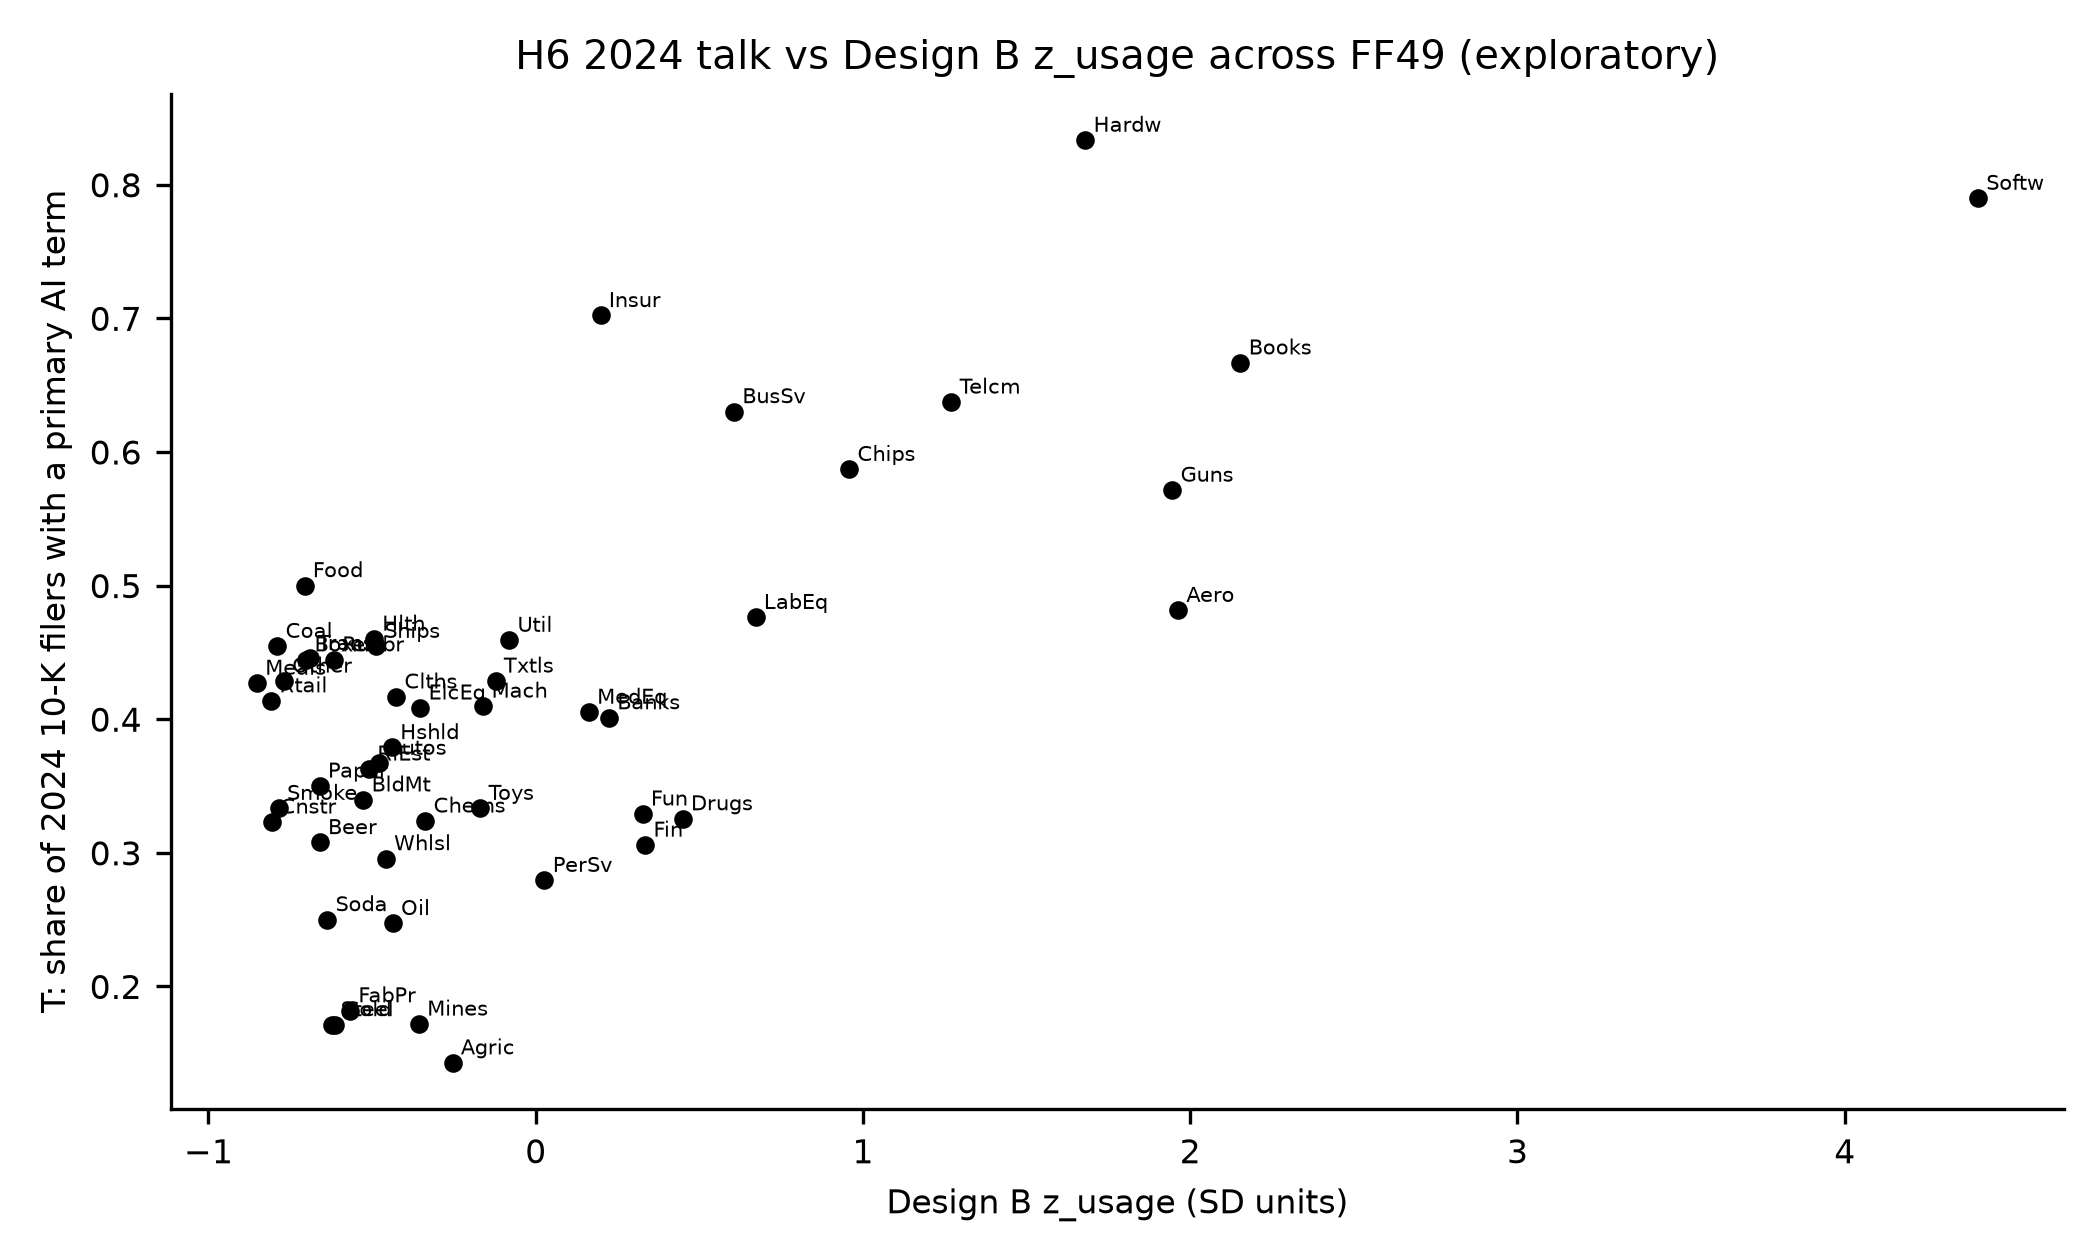
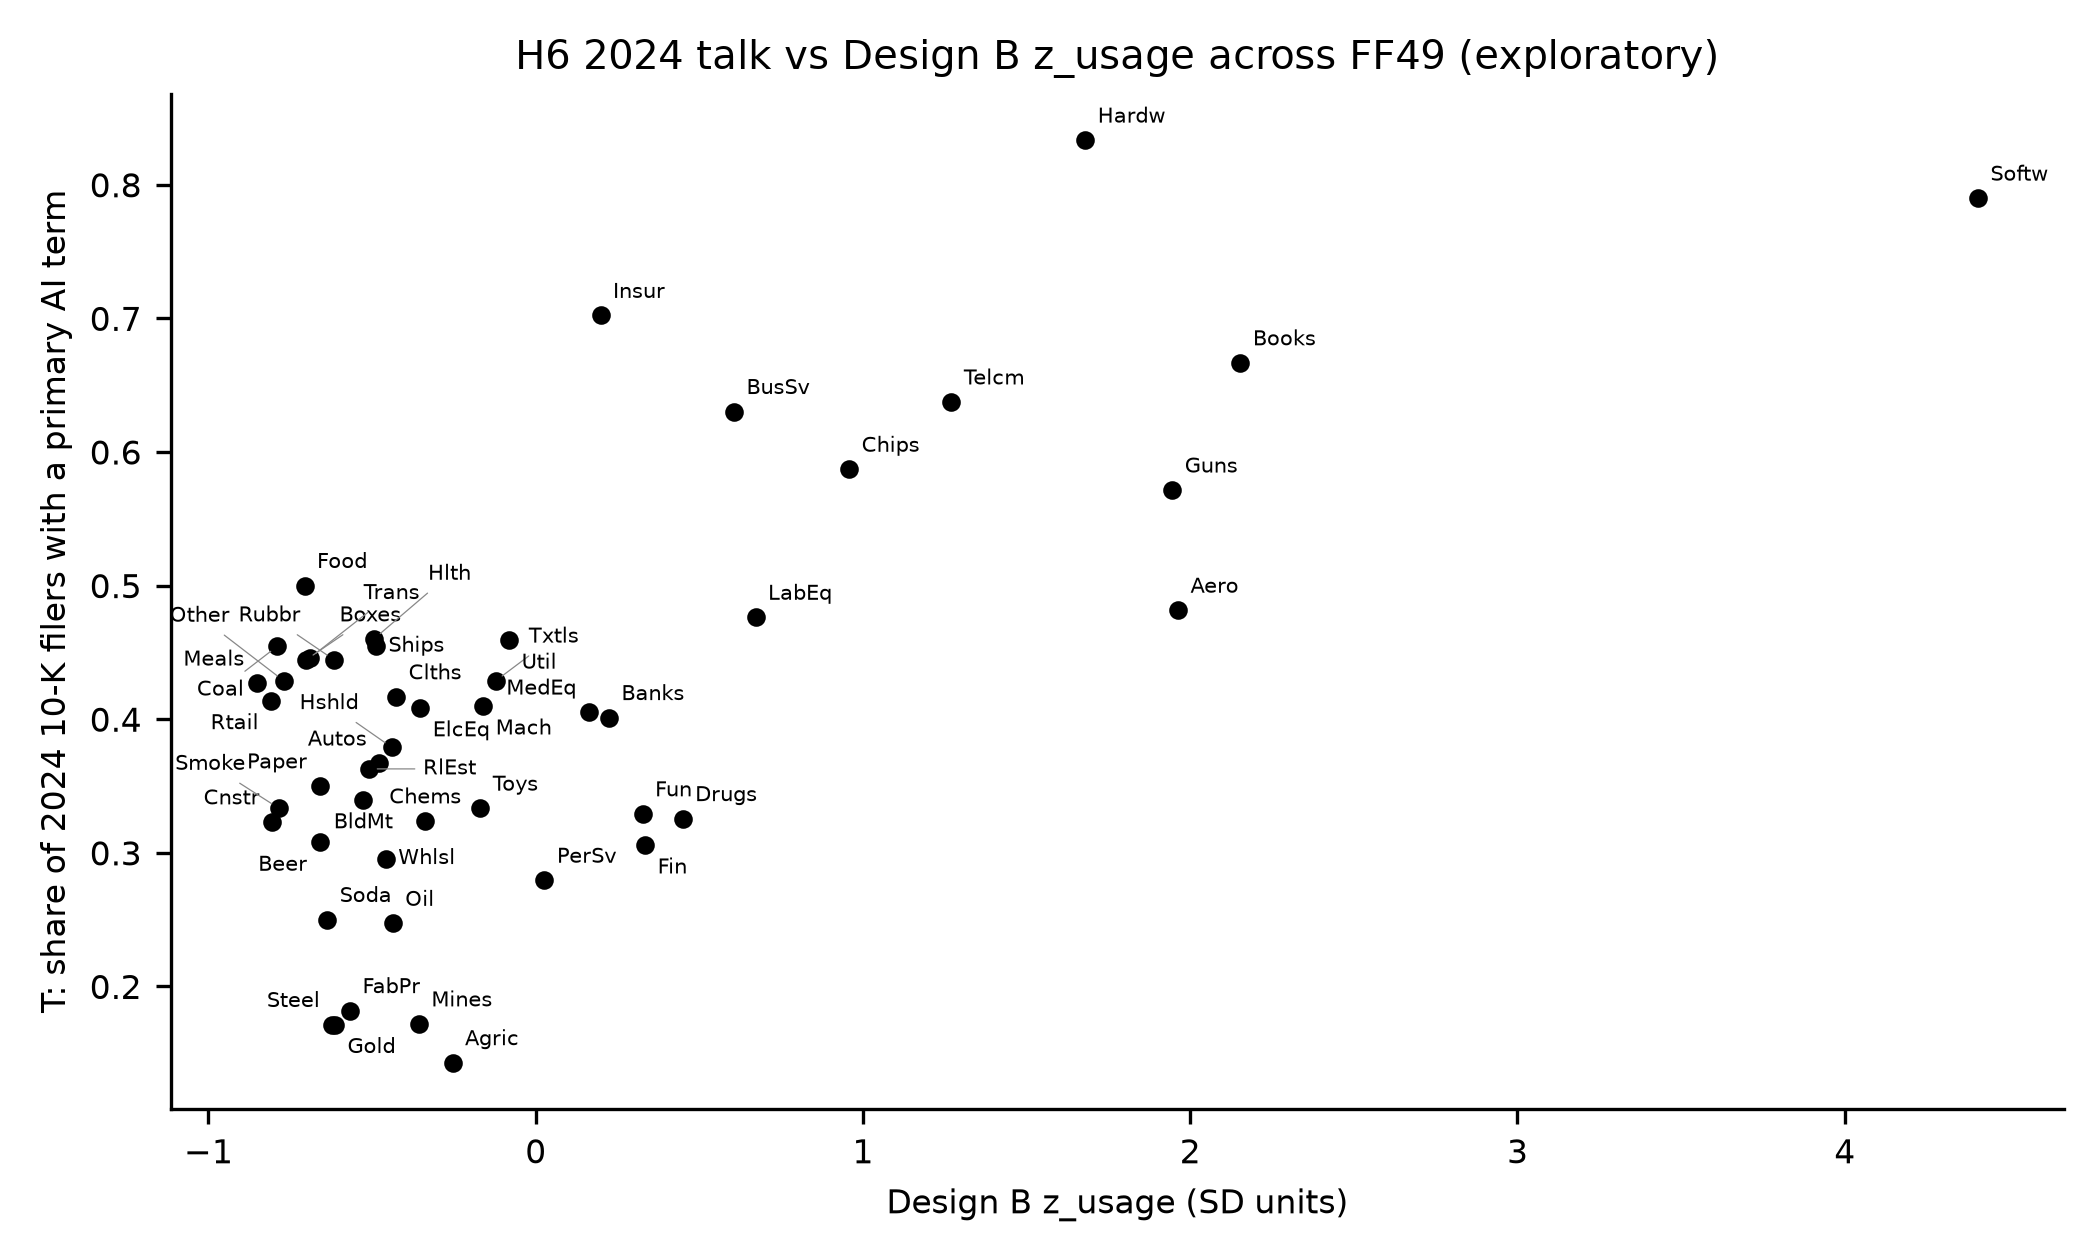
fix(h6): Task 12 review -- legible talk-vs-usage labels, 2024 counts in the gap ranking (presentation only, C-52)
Labels in fig_h6_talk_vs_usage are placed greedily with leader lines so none
collide; gap.md's ranking gains the 2024 talk-filer and filer counts. No
estimate changed: talk_index.csv and gap.csv are byte-identical to 929a094,
and the only doc change is the two added columns in gap.md.

diff --git a/src/aideleg/h6/talk.py b/src/aideleg/h6/talk.py
@@ -322,10 +322,28 @@ def _talk_md(
 
 
 def _gap_md(
-    g: pl.DataFrame, sp: dict, pool_t: dict, nulls_t: list[str], zero_lines: list[str], n_draws: int
+    g: pl.DataFrame,
+    sp: dict,
+    pool_t: dict,
+    nulls_t: list[str],
+    zero_lines: list[str],
+    n_draws: int,
+    counts_t: pl.DataFrame,
 ) -> str:
-    ranked = g.with_row_index("rank", offset=1).select(
-        "rank", pl.col("ff49_short").alias("industry"), "T", "zT", "z_usage", "gap"
+    ranked = (
+        g.with_row_index("rank", offset=1)
+        .join(counts_t, on="ff49_short", how="left")
+        .sort("rank")
+        .select(
+            "rank",
+            pl.col("ff49_short").alias("industry"),
+            pl.col("n_talk").alias(f"talk filers {T_YEAR}"),
+            pl.col("n_filers").alias(f"filers {T_YEAR}"),
+            "T",
+            "zT",
+            "z_usage",
+            "gap",
+        )
     )
     lo, hi = sp["ci95"]
     lines = [
@@ -464,14 +482,73 @@ def _fig_vs_usage(g: pl.DataFrame):
     apply_style()
     fig, ax = plt.subplots(figsize=FIGSIZE["double"])
     x, y = g["z_usage"].to_numpy(), g["T"].to_numpy()
-    ax.scatter(x, y, s=12, color=PALETTE[0])
-    for n, xi, yi in zip(g["ff49_short"].to_list(), x, y, strict=True):
-        ax.annotate(n, (xi, yi), fontsize=5, xytext=(2, 2), textcoords="offset points")
+    ax.scatter(x, y, s=12, color=PALETTE[0], zorder=3)
     ax.set_xlabel("Design B z_usage (SD units)")
     ax.set_ylabel(f"T: share of {T_YEAR} 10-K filers with a primary AI term")
     ax.set_title(f"H6 {T_YEAR} talk vs Design B z_usage across FF49 (exploratory)")
     fig.tight_layout()
+    _place_labels(fig, ax, g["ff49_short"].to_list(), x, y)
     return fig
+
+
+def _place_labels(fig, ax, names: list[str], x: np.ndarray, y: np.ndarray) -> None:
+    """Deterministic greedy label placement: each label (in order of y, then name) takes the
+    first candidate offset whose box overlaps no placed label and no marker; labels away from
+    their point get a thin leader line. Presentation only."""
+    from matplotlib.transforms import Bbox
+
+    renderer = fig.canvas.get_renderer()
+    pts = ax.transData.transform(np.column_stack([x, y]))
+    scale = fig.dpi / 72.0
+    marker = 3.0 * scale
+    markers = [
+        Bbox.from_extents(px - marker, py - marker, px + marker, py + marker) for px, py in pts
+    ]
+    dirs = [(1, 1), (1, -1), (-1, 1), (-1, -1), (1, 0), (-1, 0), (0, 1), (0, -1)]
+    cands = [(dx * r, dy * r) for r in (3, 8, 13, 18, 24, 30, 38, 46) for dx, dy in dirs]
+    placed: list = []
+    order = sorted(range(len(names)), key=lambda i: (y[i], names[i]))
+    for i in order:
+        probe = ax.text(0, 0, names[i], fontsize=5)
+        ext = probe.get_window_extent(renderer)
+        probe.remove()
+        w, h = ext.width, ext.height
+        chosen = cands[-1]
+        for dx, dy in cands:
+            cx = pts[i][0] + dx * scale
+            cy = pts[i][1] + dy * scale
+            x0 = cx if dx >= 0 else cx - w
+            x0 = x0 - w / 2 if dx == 0 else x0
+            y0 = cy if dy >= 0 else cy - h
+            y0 = y0 - h / 2 if dy == 0 else y0
+            box = Bbox.from_bounds(x0, y0, w, h)
+            others = markers[:i] + markers[i + 1 :]
+            if not any(box.overlaps(b) for b in placed + others):
+                chosen = (dx, dy)
+                placed.append(box)
+                break
+        dx, dy = chosen
+        ha = "center" if dx == 0 else ("left" if dx > 0 else "right")
+        va = "center" if dy == 0 else ("bottom" if dy > 0 else "top")
+        far = max(abs(dx), abs(dy)) > 3
+        ax.annotate(
+            names[i],
+            (x[i], y[i]),
+            xytext=(dx, dy),
+            textcoords="offset points",
+            fontsize=5,
+            ha=ha,
+            va=va,
+            arrowprops={
+                "arrowstyle": "-",
+                "lw": 0.3,
+                "color": "#888888",
+                "shrinkA": 0,
+                "shrinkB": 2,
+            }
+            if far
+            else None,
+        )
 
 
 def run_talk(
@@ -507,7 +584,10 @@ def run_talk(
     sp = spearman_ci(g["T"].to_numpy(), g["z_usage"].to_numpy(), n_draws=n_draws)
     pool_t = pool.filter(pl.col("year") == T_YEAR).row(0, named=True)
     nulls_t = null_talk(t).filter(pl.col("year") == T_YEAR)["ff49_short"].to_list()
-    gap_text = _gap_md(g, sp, pool_t, nulls_t, zero_lines, n_draws)
+    counts_t = t.filter((pl.col("year") == T_YEAR) & pl.col("ff49").is_not_null()).select(
+        "ff49_short", "n_talk", "n_filers"
+    )
+    gap_text = _gap_md(g, sp, pool_t, nulls_t, zero_lines, n_draws, counts_t)
     check_text(gap_text)
     res = gap_returns(g)
     ret_text = _ret_md(res, zero_lines)

diff --git a/tests/h6/test_talk.py b/tests/h6/test_talk.py
@@ -280,6 +280,7 @@ def test_h6_docs_labelled(monkeypatch, tmp_path):
     g = pl.read_csv(tmp_path / "gap.csv")
     assert g.columns == ["ff49_short", "T", "zT", "z_usage", "resid", "gap"]
     assert g.height == 12  # industries 13..49 have no 2024 filer: T null, listed, not in gap
+    assert "| talk filers 2024 | filers 2024 |" in gap_md
     assert "I13" in gap_md and "unmapped" in (tmp_path / "talk_index.md").read_text()
 
 

diff --git a/docs/results/h6/gap.md b/docs/results/h6/gap.md
@@ -21,56 +21,56 @@ Generated by `uv run python -m aideleg.h6 talk`. Do not edit by hand.
 
 T is a share of filers; zT, z_usage and gap are in SD units. Full precision, with the residual before scaling, in `gap.csv`.
 
-| rank | industry | T | zT | z_usage | gap |
-|---|---|---|---|---|---|
-| 1 | Insur | 0.702 | 1.939 | 0.198 | 2.416 |
-| 2 | Hardw | 0.833 | 2.809 | 1.679 | 2.265 |
-| 3 | Food | 0.500 | 0.599 | -0.706 | 1.427 |
-| 4 | BusSv | 0.630 | 1.463 | 0.606 | 1.417 |
-| 5 | Coal | 0.455 | 0.298 | -0.790 | 1.098 |
-| 6 | Trans | 0.446 | 0.238 | -0.691 | 0.931 |
-| 7 | Boxes | 0.444 | 0.231 | -0.701 | 0.930 |
-| 8 | Meals | 0.427 | 0.115 | -0.852 | 0.909 |
-| 9 | Telcm | 0.637 | 1.510 | 1.270 | 0.892 |
-| 10 | Hlth | 0.460 | 0.334 | -0.494 | 0.885 |
-| 11 | Rubbr | 0.444 | 0.231 | -0.616 | 0.855 |
-| 12 | Other | 0.429 | 0.126 | -0.769 | 0.850 |
-| 13 | Ships | 0.455 | 0.298 | -0.488 | 0.831 |
-| 14 | Rtail | 0.414 | 0.028 | -0.808 | 0.754 |
-| 15 | Chips | 0.587 | 1.176 | 0.958 | 0.722 |
-| 16 | Util | 0.459 | 0.328 | -0.081 | 0.510 |
-| 17 | Clths | 0.417 | 0.047 | -0.426 | 0.441 |
-| 18 | Books | 0.667 | 1.704 | 2.154 | 0.369 |
-| 19 | ElcEq | 0.408 | -0.007 | -0.353 | 0.303 |
-| 20 | Txtls | 0.429 | 0.126 | -0.123 | 0.277 |
-| 21 | Mach | 0.410 | 0.002 | -0.160 | 0.144 |
-| 22 | Hshld | 0.379 | -0.204 | -0.439 | 0.117 |
-| 23 | Paper | 0.350 | -0.395 | -0.660 | 0.057 |
-| 24 | Autos | 0.367 | -0.282 | -0.478 | 0.047 |
-| 25 | RlEst | 0.363 | -0.310 | -0.509 | 0.037 |
-| 26 | Smoke | 0.333 | -0.505 | -0.785 | 0.020 |
-| 27 | LabEq | 0.476 | 0.442 | 0.672 | -0.005 |
-| 28 | Cnstr | 0.323 | -0.573 | -0.805 | -0.053 |
-| 29 | BldMt | 0.340 | -0.464 | -0.527 | -0.153 |
-| 30 | MedEq | 0.405 | -0.028 | 0.162 | -0.182 |
-| 31 | Banks | 0.401 | -0.056 | 0.224 | -0.273 |
-| 32 | Guns | 0.571 | 1.073 | 1.945 | -0.290 |
-| 33 | Beer | 0.308 | -0.675 | -0.660 | -0.318 |
-| 34 | Chems | 0.324 | -0.569 | -0.337 | -0.461 |
-| 35 | Toys | 0.333 | -0.505 | -0.169 | -0.525 |
-| 36 | Softw | 0.790 | 2.521 | 4.407 | -0.537 |
-| 37 | Whlsl | 0.296 | -0.755 | -0.458 | -0.603 |
-| 38 | Soda | 0.250 | -1.058 | -0.637 | -0.849 |
-| 39 | Fun | 0.329 | -0.533 | 0.327 | -1.002 |
-| 40 | Oil | 0.247 | -1.077 | -0.437 | -1.052 |
-| 41 | Aero | 0.481 | 0.477 | 1.963 | -1.102 |
-| 42 | Drugs | 0.326 | -0.557 | 0.449 | -1.142 |
-| 43 | PerSv | 0.279 | -0.863 | 0.027 | -1.177 |
-| 44 | Fin | 0.306 | -0.688 | 0.334 | -1.215 |
-| 45 | FabPr | 0.182 | -1.510 | -0.567 | -1.514 |
-| 46 | Steel | 0.171 | -1.579 | -0.621 | -1.559 |
-| 47 | Gold | 0.171 | -1.579 | -0.613 | -1.566 |
-| 48 | Mines | 0.172 | -1.576 | -0.357 | -1.789 |
-| 49 | Agric | 0.143 | -1.768 | -0.254 | -2.137 |
+| rank | industry | talk filers 2024 | filers 2024 | T | zT | z_usage | gap |
+|---|---|---|---|---|---|---|---|
+| 1 | Insur | 99 | 141 | 0.702 | 1.939 | 0.198 | 2.416 |
+| 2 | Hardw | 40 | 48 | 0.833 | 2.809 | 1.679 | 2.265 |
+| 3 | Food | 30 | 60 | 0.500 | 0.599 | -0.706 | 1.427 |
+| 4 | BusSv | 242 | 384 | 0.630 | 1.463 | 0.606 | 1.417 |
+| 5 | Coal | 5 | 11 | 0.455 | 0.298 | -0.790 | 1.098 |
+| 6 | Trans | 45 | 101 | 0.446 | 0.238 | -0.691 | 0.931 |
+| 7 | Boxes | 4 | 9 | 0.444 | 0.231 | -0.701 | 0.930 |
+| 8 | Meals | 38 | 89 | 0.427 | 0.115 | -0.852 | 0.909 |
+| 9 | Telcm | 58 | 91 | 0.637 | 1.510 | 1.270 | 0.892 |
+| 10 | Hlth | 46 | 100 | 0.460 | 0.334 | -0.494 | 0.885 |
+| 11 | Rubbr | 8 | 18 | 0.444 | 0.231 | -0.616 | 0.855 |
+| 12 | Other | 9 | 21 | 0.429 | 0.126 | -0.769 | 0.850 |
+| 13 | Ships | 5 | 11 | 0.455 | 0.298 | -0.488 | 0.831 |
+| 14 | Rtail | 84 | 203 | 0.414 | 0.028 | -0.808 | 0.754 |
+| 15 | Chips | 108 | 184 | 0.587 | 1.176 | 0.958 | 0.722 |
+| 16 | Util | 101 | 220 | 0.459 | 0.328 | -0.081 | 0.510 |
+| 17 | Clths | 15 | 36 | 0.417 | 0.047 | -0.426 | 0.441 |
+| 18 | Books | 8 | 12 | 0.667 | 1.704 | 2.154 | 0.369 |
+| 19 | ElcEq | 29 | 71 | 0.408 | -0.007 | -0.353 | 0.303 |
+| 20 | Txtls | 3 | 7 | 0.429 | 0.126 | -0.123 | 0.277 |
+| 21 | Mach | 50 | 122 | 0.410 | 0.002 | -0.160 | 0.144 |
+| 22 | Hshld | 25 | 66 | 0.379 | -0.204 | -0.439 | 0.117 |
+| 23 | Paper | 7 | 20 | 0.350 | -0.395 | -0.660 | 0.057 |
+| 24 | Autos | 29 | 79 | 0.367 | -0.282 | -0.478 | 0.047 |
+| 25 | RlEst | 37 | 102 | 0.363 | -0.310 | -0.509 | 0.037 |
+| 26 | Smoke | 3 | 9 | 0.333 | -0.505 | -0.785 | 0.020 |
+| 27 | LabEq | 40 | 84 | 0.476 | 0.442 | 0.672 | -0.005 |
+| 28 | Cnstr | 21 | 65 | 0.323 | -0.573 | -0.805 | -0.053 |
+| 29 | BldMt | 18 | 53 | 0.340 | -0.464 | -0.527 | -0.153 |
+| 30 | MedEq | 92 | 227 | 0.405 | -0.028 | 0.162 | -0.182 |
+| 31 | Banks | 213 | 531 | 0.401 | -0.056 | 0.224 | -0.273 |
+| 32 | Guns | 8 | 14 | 0.571 | 1.073 | 1.945 | -0.290 |
+| 33 | Beer | 8 | 26 | 0.308 | -0.675 | -0.660 | -0.318 |
+| 34 | Chems | 34 | 105 | 0.324 | -0.569 | -0.337 | -0.461 |
+| 35 | Toys | 9 | 27 | 0.333 | -0.505 | -0.169 | -0.525 |
+| 36 | Softw | 297 | 376 | 0.790 | 2.521 | 4.407 | -0.537 |
+| 37 | Whlsl | 34 | 115 | 0.296 | -0.755 | -0.458 | -0.603 |
+| 38 | Soda | 2 | 8 | 0.250 | -1.058 | -0.637 | -0.849 |
+| 39 | Fun | 26 | 79 | 0.329 | -0.533 | 0.327 | -1.002 |
+| 40 | Oil | 43 | 174 | 0.247 | -1.077 | -0.437 | -1.052 |
+| 41 | Aero | 13 | 27 | 0.481 | 0.477 | 1.963 | -1.102 |
+| 42 | Drugs | 250 | 768 | 0.326 | -0.557 | 0.449 | -1.142 |
+| 43 | PerSv | 19 | 68 | 0.279 | -0.863 | 0.027 | -1.177 |
+| 44 | Fin | 200 | 654 | 0.306 | -0.688 | 0.334 | -1.215 |
+| 45 | FabPr | 2 | 11 | 0.182 | -1.510 | -0.567 | -1.514 |
+| 46 | Steel | 6 | 35 | 0.171 | -1.579 | -0.621 | -1.559 |
+| 47 | Gold | 6 | 35 | 0.171 | -1.579 | -0.613 | -1.566 |
+| 48 | Mines | 11 | 64 | 0.172 | -1.576 | -0.357 | -1.789 |
+| 49 | Agric | 5 | 35 | 0.143 | -1.768 | -0.254 | -2.137 |
 
 AEI data are conversations matched to O*NET tasks. Nothing here says anything about job risk, displacement or reassurance about the labour market.

diff --git a/docs/pap/pre-analysis-plan.md b/docs/pap/pre-analysis-plan.md
@@ -1994,4 +1994,10 @@ primary result (§0.5).
 - Results seen: RQ1 and H5 confirmatory results seen; event-study, tercile and Fama–MacBeth results seen; H6 not yet run
 - Rule: Defaults Task 12 fixed where PAP §6 D18, C-42 and C-49/C-50 are silent, fixed in code before any H6 output was produced: (1) T_j, zT, the gap OLS, Spearman and the gap–return regression use the 49 FF49 industries only; the unmapped ff49 = null denominator row (C-49 (5)) enters none of them; its count and share of filers are stated per year in talk_index.md and for 2024 in gap.md; (2) talk = n_talk / n_filers per (year, FF49), null when n_filers = 0; an FF49 industry with no 2024 filer has T undefined: it is listed and excluded from zT, the OLS, Spearman and the gap–return regression (no imputation); (3) z_usage is Design B (release r2 only, as §3.1) z_usage from the hash-checked rq3.data.exposures(), used as given (not re-standardised over the industries with T); zT = (T - mean) / population SD (ddof 0) across the industries with T; the OLS of zT on [1, z_usage] is unweighted; gap = residual / population SD (ddof 0) of the residuals; the ranking is gap descending, ties by industry name; (4) Spearman uses average ranks for ties; the 95% CI resamples industries with replacement as (T_j, z_usage_j) pairs, n = the industries with T, 10,000 draws from one default_rng(SEED) integer draw of shape (draws, n); a draw with a constant T or z_usage is undefined, dropped and counted; the CI is the equal-tailed percentile interval of the defined draws (numpy quantile, linear interpolation, rq3.stats.percentile_ci); rho itself is computed on the full sample; (5) pooled talk per year = the sum of n_talk over the sum of n_filers over every row including the unmapped row, i.e. the share of all distinct 10-K filer CIKs of the year (not a mean of industry shares); the mapped-only share is reported beside it; (6) the gap–return alphas are rq3.inference.confirmatory_alphas over confirm_h5.WINDOW (the Design B window, 2025-04-01 to 2026-08-31, FF5+UMD on FF49 daily VW), refused unless the recomputed H5/H5b slopes equal the committed record (check_matches_confirmatory); the industries are those with a gap, in return-column order; vector_test(alphas, gap, names, control=None) with its default historical matrix (the pre-seal power.historical_windows on the kept columns); an industry with no alpha is dropped by vector_test and gap is not re-standardised after that drop (as §3.1 for z_delegation); b, s, b̄ and the CI are reported x 100 in pp of annualised alpha per 1 SD of gap, with T and nominal p for both D21 nulls (b = b̄ primary, b = 0 secondary) from t_21 and CI = b ± max(t_21, q) x s; (7) organisational: until Task 13 the secondary subcommand and acquire --docs print that they are not implemented and do nothing, so all = build + talk + secondary + summary completes; summary.md links every other h6 doc and carries no estimate.
 
+### C-52. Clarification: H6 presentation: talk-vs-usage figure labels and 2024 counts in the gap ranking (2026-10-23)
+- Type: clarification (post-result); results had been seen; the PAP is silent or ambiguous here and no PAP rule or confirmatory code changes
+- Fixed by: Plan 3 Task 12 review fix (plans committed at a7fb9bd)
+- Results seen: RQ1 and H5 confirmatory results seen; event-study, tercile, Fama–MacBeth and H6 talk/gap results seen
+- Rule: After the H6 talk and gap outputs were seen (commit 929a094), two presentation-only changes were made at the reviewer's request: (1) fig_h6_talk_vs_usage places its industry labels with a deterministic greedy placement (candidate offsets around each point, the first whose box overlaps no placed label and no marker, a thin leader line when a label sits away from its point), so labels in the dense cluster no longer collide (Steel and Gold were unreadable); the plotted points, axes and title are unchanged; (2) the gap.md ranking table gains two columns, the 2024 talk filers (n_talk) and filers (n_filers) of each industry, read from the same talk table, so a reader can see ranks that rest on few filers (e.g. Coal 5/11, Boxes 4/9). No estimate, sample, specification or default (C-51) changed: talk_index.csv and gap.csv are byte-identical to commit 929a094, and the only change in the docs is the two added table columns in gap.md.
+
 ### Deviations after the freeze
